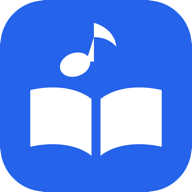
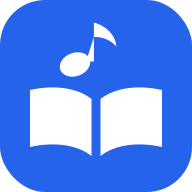
fix(frontend): barra de acciones del editor en una fila; íconos con fondo transparente
- Etiquetas que se acortan por ancho de contenedor (sin saltos de fila al cambiar el switch)
- favicon.ico e íconos PWA regenerados con transparencia real

diff --git a/frontend/pages/anuncios/index.vue b/frontend/pages/anuncios/index.vue
@@ -521,8 +521,8 @@ onMounted(() => {
           />
           <AnnouncementsEditor v-model="textInput" @submit="sendFromShortcut" />
 
-          <div class="flex flex-col sm:flex-row sm:items-center justify-between gap-3 mt-4">
-            <div class="flex flex-wrap items-center gap-x-1 gap-y-1 min-w-0">
+          <div class="act-bar flex flex-col sm:flex-row sm:items-center justify-between gap-3 mt-4">
+            <div class="flex flex-wrap sm:flex-nowrap items-center gap-x-0.5 gap-y-1 min-w-0">
               <button
                 @click="textInput = ''"
                 :disabled="!textInput || isLoading"
@@ -535,7 +535,7 @@ onMounted(() => {
                 class="inline-flex items-center gap-2 px-3 py-2 rounded-lg text-sm font-medium text-muted-foreground hover:text-foreground hover:bg-muted transition-colors shrink-0"
               >
                 <Icon name="tabler:photo" class="size-4" />
-                Medios
+                <span class="act-extra">Medios</span>
               </button>
               <button
                 @click="showHelp = true"
@@ -545,7 +545,7 @@ onMounted(() => {
                 <Icon name="tabler:help-circle" class="size-4" />
               </button>
               <label class="flex items-center gap-2 px-3 py-2 shrink-0 cursor-pointer text-sm font-medium text-muted-foreground whitespace-nowrap" title="Enviar directamente a la pantalla al guardar">
-                Enviar al guardar
+                Enviar<span class="act-extra">&nbsp;al guardar</span>
                 <GSwitch v-model="autoSendToAir" />
               </label>
             </div>
@@ -568,7 +568,7 @@ onMounted(() => {
               :class="flashing === 'send' && 'scale-95 ring-4 ring-primary/40'"
             >
               <Icon name="tabler:player-play" class="size-4" />
-              {{ autoSendToAir ? 'Mostrar' : 'Guardar' }}<span v-if="autoSendToAir" class="hidden sm:inline"> en pantalla</span>
+              {{ autoSendToAir ? 'Mostrar' : 'Guardar' }}<span v-if="autoSendToAir" class="act-extra-main"> en pantalla</span>
             </button>
             <button
               v-else
@@ -578,7 +578,7 @@ onMounted(() => {
               :class="flashing === 'send' && 'scale-95 ring-4 ring-primary/40'"
             >
               <Icon name="tabler:refresh" class="size-4" />
-              {{ autoSendToAir ? 'Reemplazar' : 'Guardar' }}<span v-if="autoSendToAir" class="hidden sm:inline"> en pantalla</span>
+              {{ autoSendToAir ? 'Reemplazar' : 'Guardar' }}<span v-if="autoSendToAir" class="act-extra-main"> en pantalla</span>
             </button>
             </div>
           </div>
@@ -871,6 +871,15 @@ onMounted(() => {
 </template>
 
 <style scoped>
+/* Barra de acciones del editor: siempre en una sola fila. Cuando el panel es angosto se
+   acortan las etiquetas (no se parte en dos filas), según el ancho del contenedor y no del viewport. */
+.act-bar { container-type: inline-size; }
+@container (max-width: 620px) {
+  .act-extra { display: none; }
+}
+@container (max-width: 480px) {
+  .act-extra-main { display: none; }
+}
 /* Distribución según el ancho disponible del área (no de la ventana) */
 .cq { container-type: inline-size; }
 .anuncios-grid { display: grid; gap: 1.5rem; grid-template-columns: minmax(0, 1fr); align-items: start; }
